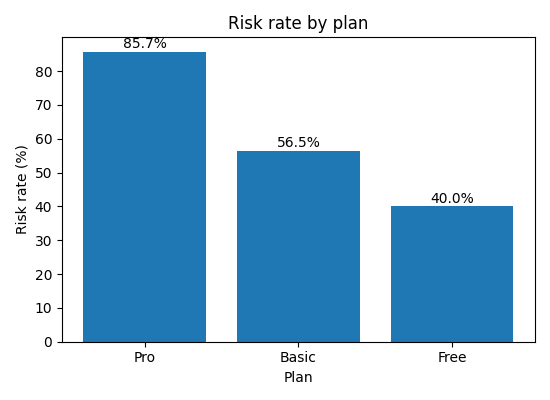
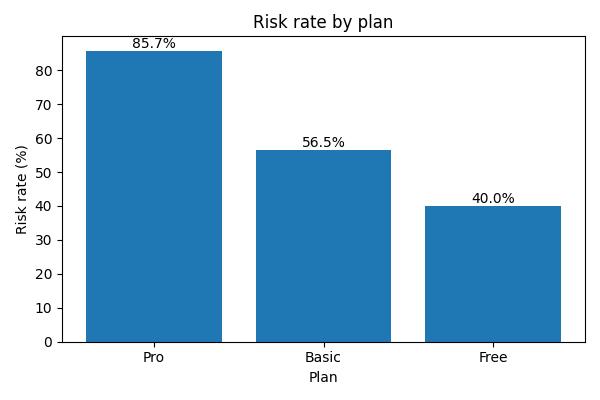
docs: embed charts

diff --git a/scripts/plot_band_stacked.py b/scripts/plot_band_stacked.py
@@ -1,0 +1,11 @@
+import sys, pandas as pd, matplotlib.pyplot as plt
+csv, out = sys.argv[1], sys.argv[2]
+df = pd.read_csv(csv)
+plt.figure(figsize=(6,4))
+p1 = plt.bar(df['plan'], df['green'], label='Green')
+p2 = plt.bar(df['plan'], df['amber'], bottom=df['green'], label='Amber')
+p3 = plt.bar(df['plan'], df['red'],   bottom=df['green']+df['amber'], label='Red')
+plt.legend(); plt.title("Band distribution by plan")
+plt.xlabel("Plan"); plt.ylabel("Customers")
+plt.tight_layout(); plt.savefig(out)
+print("Saved:", out)

diff --git a/scripts/plot_risk_mrr.py b/scripts/plot_risk_mrr.py
@@ -1,0 +1,9 @@
+import sys, pandas as pd, matplotlib.pyplot as plt
+csv, out = sys.argv[1], sys.argv[2]
+df = pd.read_csv(csv)
+plt.figure(figsize=(6,4))
+plt.bar(df['plan'], df['mrr_risky'])
+for i,v in enumerate(df['mrr_risky']): plt.text(i, v, f"{int(v):,}", ha='center', va='bottom')
+plt.title("MRR at Risk by plan"); plt.xlabel("Plan"); plt.ylabel("MRR at risk")
+plt.tight_layout(); plt.savefig(out)
+print("Saved:", out)

diff --git a/scripts/plot_risk_by_plan.py b/scripts/plot_risk_by_plan.py
@@ -1,0 +1,9 @@
+import sys, pandas as pd, matplotlib.pyplot as plt
+csv, out = sys.argv[1], sys.argv[2]
+df = pd.read_csv(csv)
+plt.figure(figsize=(6,4))
+plt.bar(df['plan'], df['pct'])
+for i,v in enumerate(df['pct']): plt.text(i, v, f"{v:.1f}%", ha='center', va='bottom')
+plt.title("Risk rate by plan"); plt.xlabel("Plan"); plt.ylabel("Risk rate (%)")
+plt.tight_layout(); plt.savefig(out)
+print("Saved:", out)

diff --git a/scripts/plot_plan_counts.py b/scripts/plot_plan_counts.py
@@ -1,0 +1,8 @@
+import sys, pandas as pd, matplotlib.pyplot as plt
+csv, out = sys.argv[1], sys.argv[2]
+df = pd.read_csv(csv)
+plt.figure(figsize=(6,4))
+plt.bar(df['plan'], df['customers'])
+plt.title("Plan counts"); plt.xlabel("Plan"); plt.ylabel("Customers")
+plt.tight_layout(); plt.savefig(out)
+print("Saved:", out)

diff --git a/README.md b/README.md
@@ -125,3 +125,9 @@ git status
 
 ## Band distribution by plan
 ![Band by plan](outputs/plan_band_stacked.png)
+
+## 可視化
+![Plan](outputs/plan_counts.png)
+![Risk](outputs/risk_by_plan.png)
+![MRR at Risk](outputs/risk_by_plan_mrr.png)
+![Band](outputs/plan_band_stacked.png)
